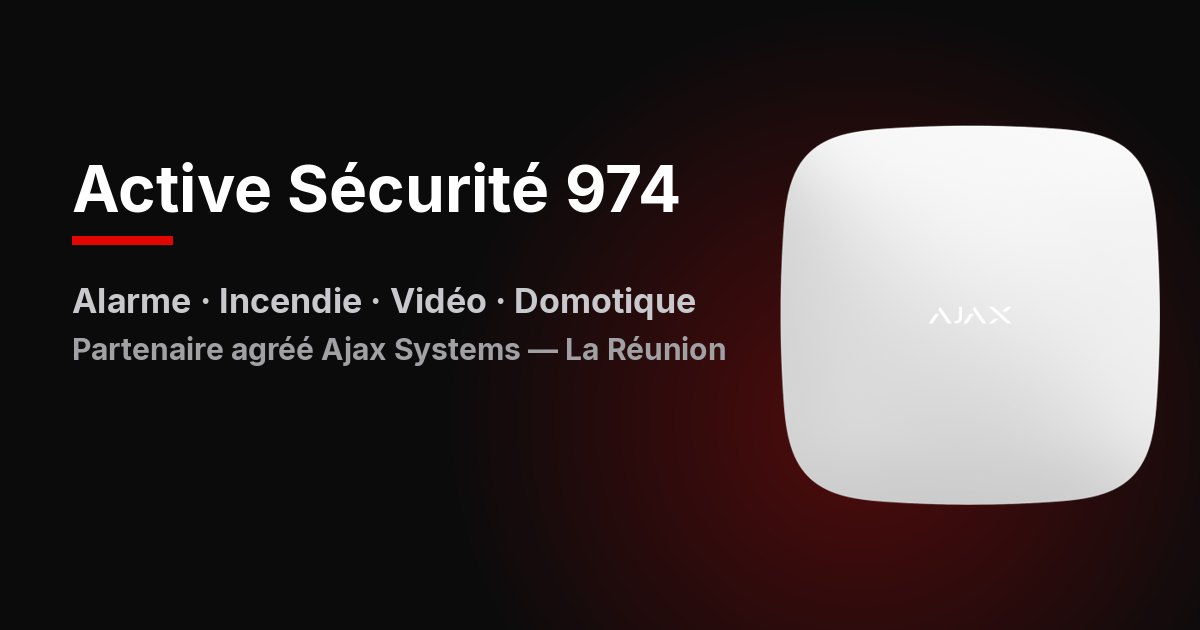
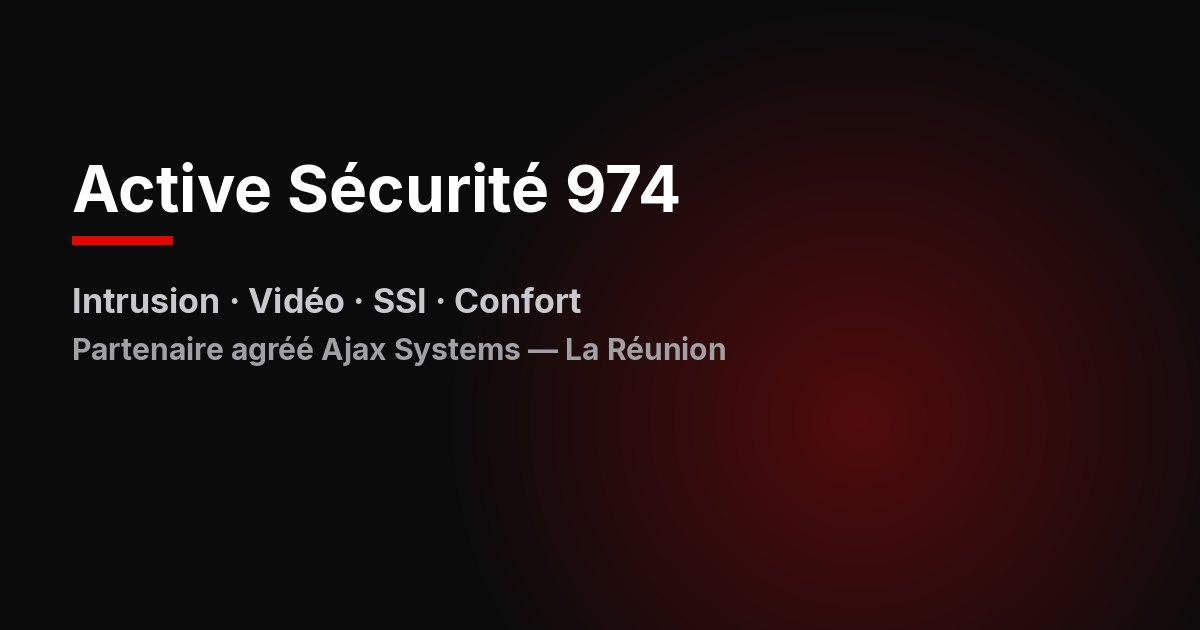
Remplace le mot incendie par SSI dans les textes du site.
Les anciennes adresses sortent du sitemap. La page PPMS ne cite que les trois produits Type4 qu’Ajax y rattache.

Changed region(s): [[0.6475, 0.181, 0.9867, 0.8143], [0.0617, 0.4524, 0.5858, 0.5127]]

diff --git a/index.html b/index.html
@@ -4,7 +4,7 @@
 <meta charset="utf-8">
 <meta name="viewport" content="width=device-width, initial-scale=1, viewport-fit=cover">
 <title>Alarme et vidéosurveillance Ajax à La Réunion — Active Sécurité 974</title>
-<meta name="description" content="Installateur partenaire agréé Ajax Systems à La Réunion (Saint-Denis, Saint-Pierre, Saint-Paul, Le Port, Saint-Benoît et toute l’île) : alarme, vidéo, incendie EN54 et domotique. Étude gratuite chez vous.">
+<meta name="description" content="Installateur partenaire agréé Ajax Systems à La Réunion (Saint-Denis, Saint-Pierre, Saint-Paul, Le Port, Saint-Benoît et toute l’île) : intrusion, vidéo, SSI et confort. Étude gratuite chez vous.">
 <link rel="canonical" href="https://gaelvaudin-wq.github.io/as974-site/">
 
 
@@ -13,12 +13,12 @@
 <meta property="og:locale" content="fr_FR">
 <meta property="og:site_name" content="Active Sécurité 974">
 <meta property="og:title" content="Alarme et vidéosurveillance Ajax à La Réunion — Active Sécurité 974">
-<meta property="og:description" content="Installateur partenaire agréé Ajax Systems à La Réunion (Saint-Denis, Saint-Pierre, Saint-Paul, Le Port, Saint-Benoît et toute l’île) : alarme, vidéo, incendie EN54 et domotique. Étude gratuite chez vous.">
+<meta property="og:description" content="Installateur partenaire agréé Ajax Systems à La Réunion (Saint-Denis, Saint-Pierre, Saint-Paul, Le Port, Saint-Benoît et toute l’île) : intrusion, vidéo, SSI et confort. Étude gratuite chez vous.">
 <meta property="og:url" content="https://gaelvaudin-wq.github.io/as974-site/">
 <meta property="og:image" content="https://gaelvaudin-wq.github.io/as974-site/assets/img/og-as974.jpg">
 <meta name="twitter:card" content="summary_large_image">
 <meta name="twitter:title" content="Alarme et vidéosurveillance Ajax à La Réunion — Active Sécurité 974">
-<meta name="twitter:description" content="Installateur partenaire agréé Ajax Systems à La Réunion (Saint-Denis, Saint-Pierre, Saint-Paul, Le Port, Saint-Benoît et toute l’île) : alarme, vidéo, incendie EN54 et domotique. Étude gratuite chez vous.">
+<meta name="twitter:description" content="Installateur partenaire agréé Ajax Systems à La Réunion (Saint-Denis, Saint-Pierre, Saint-Paul, Le Port, Saint-Benoît et toute l’île) : intrusion, vidéo, SSI et confort. Étude gratuite chez vous.">
 <meta name="twitter:image" content="https://gaelvaudin-wq.github.io/as974-site/assets/img/og-as974.jpg">
 <link rel="icon" href="favicon-32.png" sizes="32x32" type="image/png">
 <link rel="apple-touch-icon" href="apple-touch-icon.png">

diff --git a/catalogue.html b/catalogue.html
@@ -4,7 +4,7 @@
 <meta charset="utf-8">
 <meta name="viewport" content="width=device-width, initial-scale=1, viewport-fit=cover">
 <title>Catalogue Ajax Systems sur devis — 287 références | AS974</title>
-<meta name="description" content="Catalogue de 287 références Ajax Systems : centrales, alarme, incendie, vidéosurveillance, domotique, accessoires. Sur devis, installation à La Réunion.">
+<meta name="description" content="Catalogue de 287 références Ajax Systems : intrusion, vidéo, SSI, confort et accessoires. Sur devis, installation à La Réunion.">
 <link rel="canonical" href="https://gaelvaudin-wq.github.io/as974-site/catalogue.html">
 
 
@@ -13,12 +13,12 @@
 <meta property="og:locale" content="fr_FR">
 <meta property="og:site_name" content="Active Sécurité 974">
 <meta property="og:title" content="Catalogue Ajax Systems sur devis — 287 références | AS974">
-<meta property="og:description" content="Catalogue de 287 références Ajax Systems : centrales, alarme, incendie, vidéosurveillance, domotique, accessoires. Sur devis, installation à La Réunion.">
+<meta property="og:description" content="Catalogue de 287 références Ajax Systems : intrusion, vidéo, SSI, confort et accessoires. Sur devis, installation à La Réunion.">
 <meta property="og:url" content="https://gaelvaudin-wq.github.io/as974-site/catalogue.html">
 <meta property="og:image" content="https://gaelvaudin-wq.github.io/as974-site/assets/img/og-as974.jpg">
 <meta name="twitter:card" content="summary_large_image">
 <meta name="twitter:title" content="Catalogue Ajax Systems sur devis — 287 références | AS974">
-<meta name="twitter:description" content="Catalogue de 287 références Ajax Systems : centrales, alarme, incendie, vidéosurveillance, domotique, accessoires. Sur devis, installation à La Réunion.">
+<meta name="twitter:description" content="Catalogue de 287 références Ajax Systems : intrusion, vidéo, SSI, confort et accessoires. Sur devis, installation à La Réunion.">
 <meta name="twitter:image" content="https://gaelvaudin-wq.github.io/as974-site/assets/img/og-as974.jpg">
 <link rel="icon" href="favicon-32.png" sizes="32x32" type="image/png">
 <link rel="apple-touch-icon" href="apple-touch-icon.png">

diff --git a/contact.html b/contact.html
@@ -4,7 +4,7 @@
 <meta charset="utf-8">
 <meta name="viewport" content="width=device-width, initial-scale=1, viewport-fit=cover">
 <title>Contact et demande de devis gratuit — Active Sécurité 974</title>
-<meta name="description" content="Demandez votre devis gratuit : alarme, vidéosurveillance, incendie ou domotique Ajax Systems. Intervention chez vous sur toute l’île de La Réunion.">
+<meta name="description" content="Demandez votre devis gratuit : intrusion, vidéo, SSI ou confort. Intervention chez vous sur toute l’île de La Réunion.">
 <link rel="canonical" href="https://gaelvaudin-wq.github.io/as974-site/contact.html">
 
 
@@ -13,12 +13,12 @@
 <meta property="og:locale" content="fr_FR">
 <meta property="og:site_name" content="Active Sécurité 974">
 <meta property="og:title" content="Contact et demande de devis gratuit — Active Sécurité 974">
-<meta property="og:description" content="Demandez votre devis gratuit : alarme, vidéosurveillance, incendie ou domotique Ajax Systems. Intervention chez vous sur toute l’île de La Réunion.">
+<meta property="og:description" content="Demandez votre devis gratuit : intrusion, vidéo, SSI ou confort. Intervention chez vous sur toute l’île de La Réunion.">
 <meta property="og:url" content="https://gaelvaudin-wq.github.io/as974-site/contact.html">
 <meta property="og:image" content="https://gaelvaudin-wq.github.io/as974-site/assets/img/og-as974.jpg">
 <meta name="twitter:card" content="summary_large_image">
 <meta name="twitter:title" content="Contact et demande de devis gratuit — Active Sécurité 974">
-<meta name="twitter:description" content="Demandez votre devis gratuit : alarme, vidéosurveillance, incendie ou domotique Ajax Systems. Intervention chez vous sur toute l’île de La Réunion.">
+<meta name="twitter:description" content="Demandez votre devis gratuit : intrusion, vidéo, SSI ou confort. Intervention chez vous sur toute l’île de La Réunion.">
 <meta name="twitter:image" content="https://gaelvaudin-wq.github.io/as974-site/assets/img/og-as974.jpg">
 <link rel="icon" href="favicon-32.png" sizes="32x32" type="image/png">
 <link rel="apple-touch-icon" href="apple-touch-icon.png">

diff --git a/gamme-ssi-ppms.html b/gamme-ssi-ppms.html
@@ -41,11 +41,8 @@
 </header>
 <main id="contenu">
 <section class="phero"><div class="wrap"><nav class="crumbs" aria-label="Fil d’Ariane"><a href="index.html">Accueil</a><span aria-hidden="true">/</span><a href="gamme-ssi.html">SSI</a><span aria-hidden="true">/</span><span aria-current="page">PPMS Line</span></nav><h1 class="h1">PPMS Line.</h1>
-<p class="lead">Alerte menace sans fil pour les établissements scolaires et les bâtiments publics. Ajax indique une alerte sur le site en moins de 3 secondes.</p>
+<p class="lead">Ajax rattache à cette ligne le Type4 Hub (4G), le Type4 ReX et le module E/S.</p>
 <p class="src-note">Source : Ajax Systems</p>
-<details class="more"><summary>En savoir plus</summary>
-<p>Annoncés par Ajax, pas encore au catalogue illustré : Sounder/VAD (Blue) Jeweller, ManualCallPoint (Black) Jeweller.</p>
-</details>
 <div class="btns"><a class="btn btn-primary" href="contact.html#devis">Demander une étude</a></div>
 </div></section>
 <section class="section"><div class="wrap"><div data-rail>

diff --git a/_build/pages.py b/_build/pages.py
@@ -1,7 +1,7 @@
 """Pages éditoriales (textes repris des pages v1 validées, mise en page refondue)."""
 import os
 from core import *
-from layout import write_page, crumbs
+from layout import write_page, crumbs, PAGES
 from components import card, rail, filter_grid, cta, versus, yt, video_ld
 import sell
 from diagrams import portee, frise, ia, comparatif, en54, steps
@@ -175,7 +175,7 @@ def home():
            "logo": SITE + "/assets/img/logo/as974-b-horizontal-noir-rouge.png",
            "areaServed": {"@type": "AdministrativeArea", "name": "La Réunion"}}
     write_page("index.html", "Alarme et vidéosurveillance Ajax à La Réunion — Active Sécurité 974",
-               "Installateur partenaire agréé Ajax Systems à La Réunion (Saint-Denis, Saint-Pierre, Saint-Paul, Le Port, Saint-Benoît et toute l’île) : alarme, vidéo, incendie EN54 et domotique. Étude gratuite chez vous.",
+               "Installateur partenaire agréé Ajax Systems à La Réunion (Saint-Denis, Saint-Pierre, Saint-Paul, Le Port, Saint-Benoît et toute l’île) : intrusion, vidéo, SSI et confort. Étude gratuite chez vous.",
                body, jsonld=[website, org, video_ld("o8VNaCPCydE", "De la détection à la réaction", "Les caméras Ajax peuvent lancer une réaction automatique.")], priority="1.0")
 
 # ====================================================================== PARTICULIERS
@@ -297,10 +297,10 @@ GAMME_PAGES = {
                "motioncam-phod", "Noir", "dark", ["doorprotect", "motionprotect", "motioncam-phod", "keypad-touchscreen", "streetsiren", "combiprotect"],
                "Alarme intrusion sans fil Ajax à La Réunion — détecteurs, claviers, sirènes | AS974",
                "Alarme intrusion Ajax Systems à La Réunion : détecteurs de mouvement et d’ouverture, claviers, sirènes. Gammes Baseline et Superior, installation par AS974."),
-    "incendie": ("gamme-incendie.html", "Incendie", "Détecteurs de fumée, de chaleur et de monoxyde de carbone, étudiés selon votre site.",
+    "incendie": ("gamme-incendie.html", "EN54 Line", "Ligne distincte du menu Produits. Le SSI du menu, c’est Type4, PPMS et Residence.",
                  "fireprotect-2-smoke-heat-co", "Blanc", "", ["fireprotect-2-smoke-heat-co", "fireprotect", "type4-manualcallpoint-jeweller", "fireprotect-2-rb-heat-smoke-co-ul-jeweller"],
-                 "Détection incendie Ajax à La Réunion — fumée, chaleur, CO | AS974",
-                 "Détecteurs incendie Ajax Systems à La Réunion : fumée, chaleur, monoxyde de carbone, déclencheurs manuels. Étude au cas par cas et installation par AS974."),
+                 "EN54 Line — catalogue Ajax | AS974",
+                 "Ligne EN54 du catalogue fabricant, distincte du SSI (Type4, PPMS, Residence)."),
     "video": ("gamme-video.html", "Vidéosurveillance", "Caméras IP, sonnette et NVR Ajax Systems, intégrés à l’alarme pour une levée de doute visuelle.",
               "bulletcam", "Blanc", "dark", ["bulletcam", "turretcam", "domecam-mini", "doorbell", "nvr", "bulletcam-hl"],
               "Vidéosurveillance Ajax à La Réunion — caméras IP, NVR, sonnette | AS974",
@@ -409,7 +409,7 @@ def gamme_video():
 def gamme_en54():
     pre = ""
     prods = [p for p in ALL if p["gamme"] == "EN54 Line" or str(p["slug"]).startswith("en54-") or str(p["slug"]).startswith("manualcallpoint-")]
-    cr, ld = crumbs(pre, [("professionnels.html", "Professionnels"), (None, "Incendie EN54")])
+    cr, ld = crumbs(pre, [("professionnels.html", "Professionnels"), (None, "EN54 Line")])
     arch = f'''<section class="section"><div class="wrap split-vis">
 <div class="vis-copy"><h2 class="h2">La ligne des bâtiments.</h2>
 <p>Centrale, détecteurs, sirènes, déclencheur rouge, module et prolongateur.</p>
@@ -426,7 +426,7 @@ def gamme_en54():
 <div class="vis-media">{steps()}</div>
 </div></section>'''
     body = f'''<section class="phero"><div class="wrap phero-split crumbs-first">
-<div>{cr}<p class="eyebrow">Professionnels · EN54 Line</p><h1 class="h1">Incendie certifié EN 54, pour les bâtiments.</h1>
+<div>{cr}<p class="eyebrow">Professionnels · EN54 Line</p><h1 class="h1">Ligne EN54, pour les bâtiments.</h1>
 <p class="lead">Centrale, détecteurs, sirènes et modules, pour les bâtiments.</p>
 <div class="btns"><a class="btn btn-primary btn-lg" href="contact.html?profil=professionnel#devis">Demander une étude EN54</a><a class="btn btn-outline btn-lg" href="catalogue-incendie.html">Voir les {len(prods)} références de la ligne</a></div></div>
 <div class="phero-media">{stage_img("en54-fire-hub-jeweller", "Blanc", pre, SZ_SPLIT, eager=True)}</div>
@@ -436,7 +436,7 @@ def gamme_en54():
     itemlist = {"@context": "https://schema.org", "@type": "ItemList", "name": "Ajax EN54 Line",
                 "itemListElement": [{"@type": "ListItem", "position": i, "name": p["name"], "url": f"{SITE}/produits/{p['slug']}.html"} for i, p in enumerate(prods, 1)]}
     write_page("gamme-incendie.html",
-               "Incendie EN54 Ajax à La Réunion — centrale, détecteurs, déclencheurs | AS974",
+               "EN54 Line — catalogue Ajax | AS974",
                "Ligne professionnelle Ajax EN54 pour ERP, entreprises et bâtiments à La Réunion : centrale Fire Hub, détecteurs, déclencheurs, sirènes et modules. Étude par Active Sécurité 974.",
                body, jsonld=[ld, itemlist], priority="0.8")
 
@@ -585,7 +585,7 @@ def catalogue_index():
                 "hasPart": [{"@type": "CollectionPage", "name": GROUP[g]["label"], "url": f"{SITE}/catalogue-{g}.html"} for g in GROUP]}
     shown = sum(1 for p in ALL if default_image(p))
     write_page("catalogue.html", f"Catalogue Ajax Systems sur devis — {shown} références | AS974",
-               f"Catalogue de {shown} références Ajax Systems : centrales, alarme, incendie, vidéosurveillance, domotique, accessoires. Sur devis, installation à La Réunion.",
+               f"Catalogue de {shown} références Ajax Systems : intrusion, vidéo, SSI, confort et accessoires. Sur devis, installation à La Réunion.",
                body, jsonld=[ld, itemlist], priority="0.9")
 
 def catalogue_cat(g):
@@ -770,7 +770,7 @@ def contact():
 {aside}
 </div></section>'''
     write_page("contact.html", "Contact et demande de devis gratuit — Active Sécurité 974",
-               "Demandez votre devis gratuit : alarme, vidéosurveillance, incendie ou domotique Ajax Systems. Intervention chez vous sur toute l’île de La Réunion.",
+               "Demandez votre devis gratuit : intrusion, vidéo, SSI ou confort. Intervention chez vous sur toute l’île de La Réunion.",
                body, jsonld=[ld], priority="0.9")
     body2 = f'''<section class="phero notfound"><div class="wrap center">
 <p class="eyebrow">Demande envoyée</p><h1 class="h1">Merci, votre demande est bien partie.</h1>
@@ -1038,11 +1038,8 @@ def arbre():
     write_page("gamme-ssi-ppms.html", "PPMS Line — SSI | AS974",
                "PPMS Line : alerte menace sans fil pour les établissements scolaires et les bâtiments publics.",
                f'''<section class="phero"><div class="wrap">{cr}<h1 class="h1">PPMS Line.</h1>
-<p class="lead">Alerte menace sans fil pour les établissements scolaires et les bâtiments publics. Ajax indique une alerte sur le site en moins de 3 secondes.</p>
+<p class="lead">Ajax rattache à cette ligne le Type4 Hub (4G), le Type4 ReX et le module E/S.</p>
 <p class="src-note">Source : Ajax Systems</p>
-<details class="more"><summary>En savoir plus</summary>
-<p>Annoncés par Ajax, pas encore au catalogue illustré : Sounder/VAD (Blue) Jeweller, ManualCallPoint (Black) Jeweller.</p>
-</details>
 <div class="btns"><a class="btn btn-primary" href="contact.html#devis">Demander une étude</a></div>
 </div></section>
 {_rails(ppms_named, pre)}''', jsonld=[ld], priority="0.7")
@@ -1067,6 +1064,9 @@ def arbre():
                "Confort et automatisation.",
                "Éclairage, prises, relais et fuites d’eau, dans la même application que l’alarme.",
                confort, _film("assets/video/app/switches-app.mp4", "assets/img/ajax/pro-desktop.jpg", "Interrupteurs dans l’application."))
+    gone = {
+        "gamme-incendie.html", "gamme-alarme.html", "gamme-domotique.html", "catalogue-incendie.html",
+    }
     for old, target in (
         ("gamme-incendie.html", "gamme-ssi.html"),
         ("gamme-alarme.html", "gamme-intrusion.html"),
@@ -1074,6 +1074,7 @@ def arbre():
         ("catalogue-incendie.html", "catalogue-ssi.html"),
     ):
         _redirect(old, target)
+    PAGES[:] = [item for item in PAGES if item[0] not in gone]
     print("ARBRE",
           "intrusion-baseline", len(intru_b),
           "intrusion-superior", len(intru_s),

diff --git a/_build/build.py b/_build/build.py
@@ -37,7 +37,7 @@ def og_image():
     dr = ImageDraw.Draw(im)
     dr.text((72, 150), "Active Sécurité 974", font=F(64, 750), fill="white")
     dr.rectangle((72, 236, 172, 244), fill=(225, 6, 0))
-    dr.text((72, 280), "Alarme · Incendie · Vidéo · Domotique", font=F(34, 500), fill=(200, 200, 205))
+    dr.text((72, 280), "Intrusion · Vidéo · SSI · Confort", font=F(34, 500), fill=(200, 200, 205))
     dr.text((72, 330), "Partenaire agréé Ajax Systems — La Réunion", font=F(30, 500), fill=(160, 160, 165))
     if src and os.path.exists(src):
         p = Image.open(src).convert("RGBA"); p = p.crop(p.split()[3].getbbox()); p.thumbnail((380, 380))
